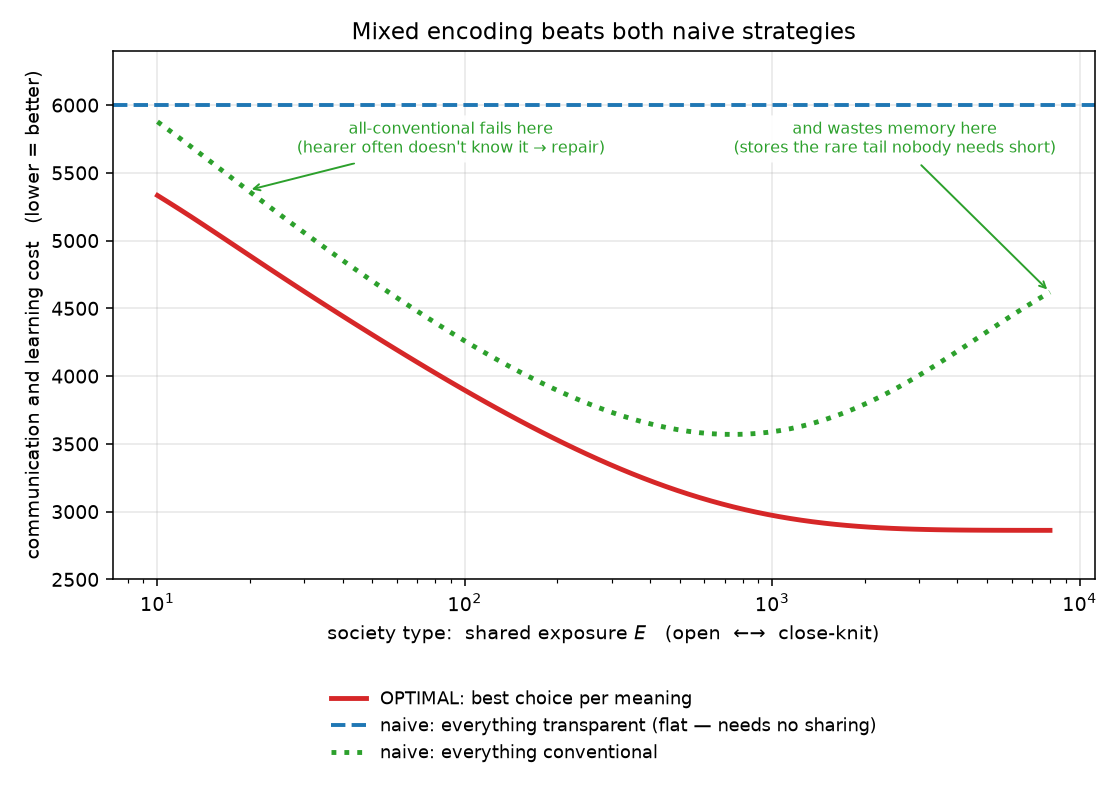
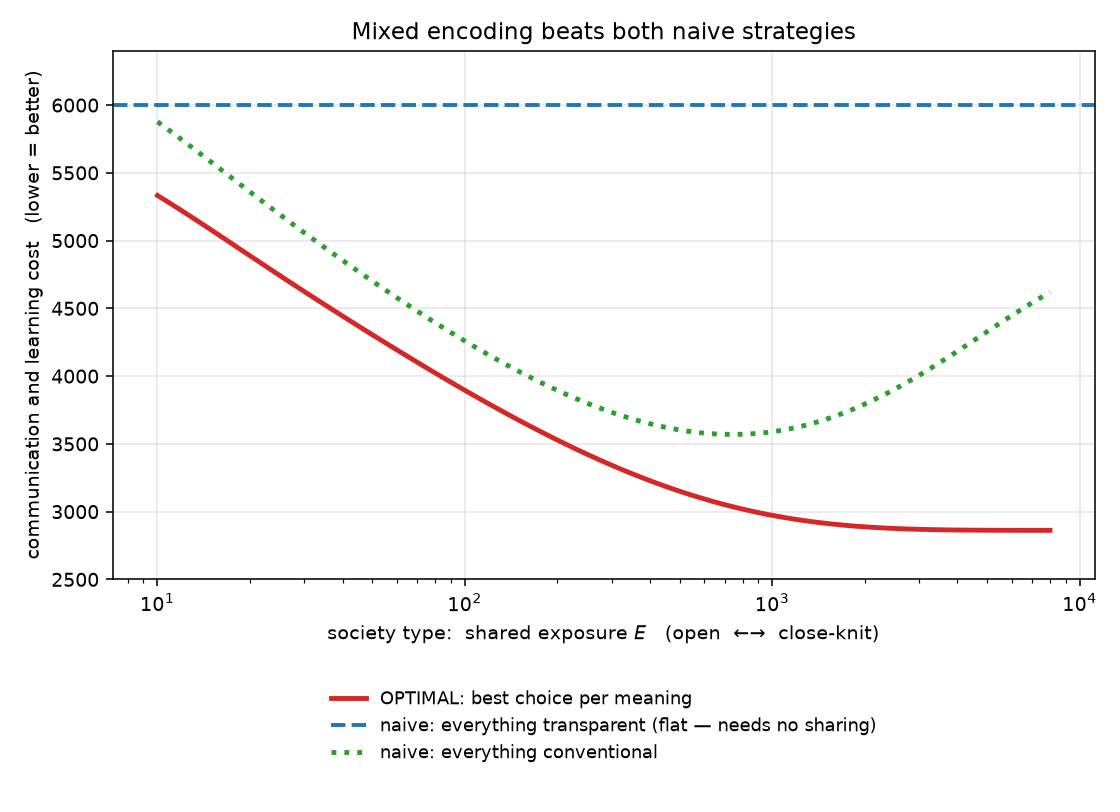
Remove the callout annotations from the cost-vs-society figure.

diff --git a/simulation/run_experiments.py b/simulation/run_experiments.py
@@ -72,22 +72,6 @@ def fig_cost_vs_society(params: ModelParams) -> None:
               fontsize=9, ncol=1)  # one column
     ax.grid(alpha=0.3)  # light grid
 
-    note = dict(fontsize=8, color="C2", ha="center", va="center",  # shared annotation style
-                bbox=dict(boxstyle="round,pad=0.3", facecolor="white",  # white bubble behind text
-                          edgecolor="none", alpha=0.95))  # almost opaque
-    ax.annotate(  # why all-conventional fails in open societies
-        "all-conventional fails here\n(hearer often doesn't know it → repair)",  # callout text
-        xy=(E_grid[8], all_conv[8]), xytext=(90, 5750),  # arrow from text to the left hump
-        arrowprops=dict(arrowstyle="->", color="C2", lw=1),  # arrow styling
-        **note,  # shared bubble style
-    )
-    ax.annotate(  # why all-conventional wastes memory in close-knit societies
-        "and wastes memory here\n(stores the rare tail nobody needs short)",  # callout text
-        xy=(E_grid[-1], all_conv[-1]), xytext=(2500, 5750),  # arrow to the right tail
-        arrowprops=dict(arrowstyle="->", color="C2", lw=1),  # arrow styling
-        **note,  # shared bubble style
-    )
-
     fig.tight_layout()  # pack legend and axes
     out = os.path.join(FIG_DIR, "cost_vs_society.png")  # output path
     fig.savefig(out, dpi=140)  # write PNG
